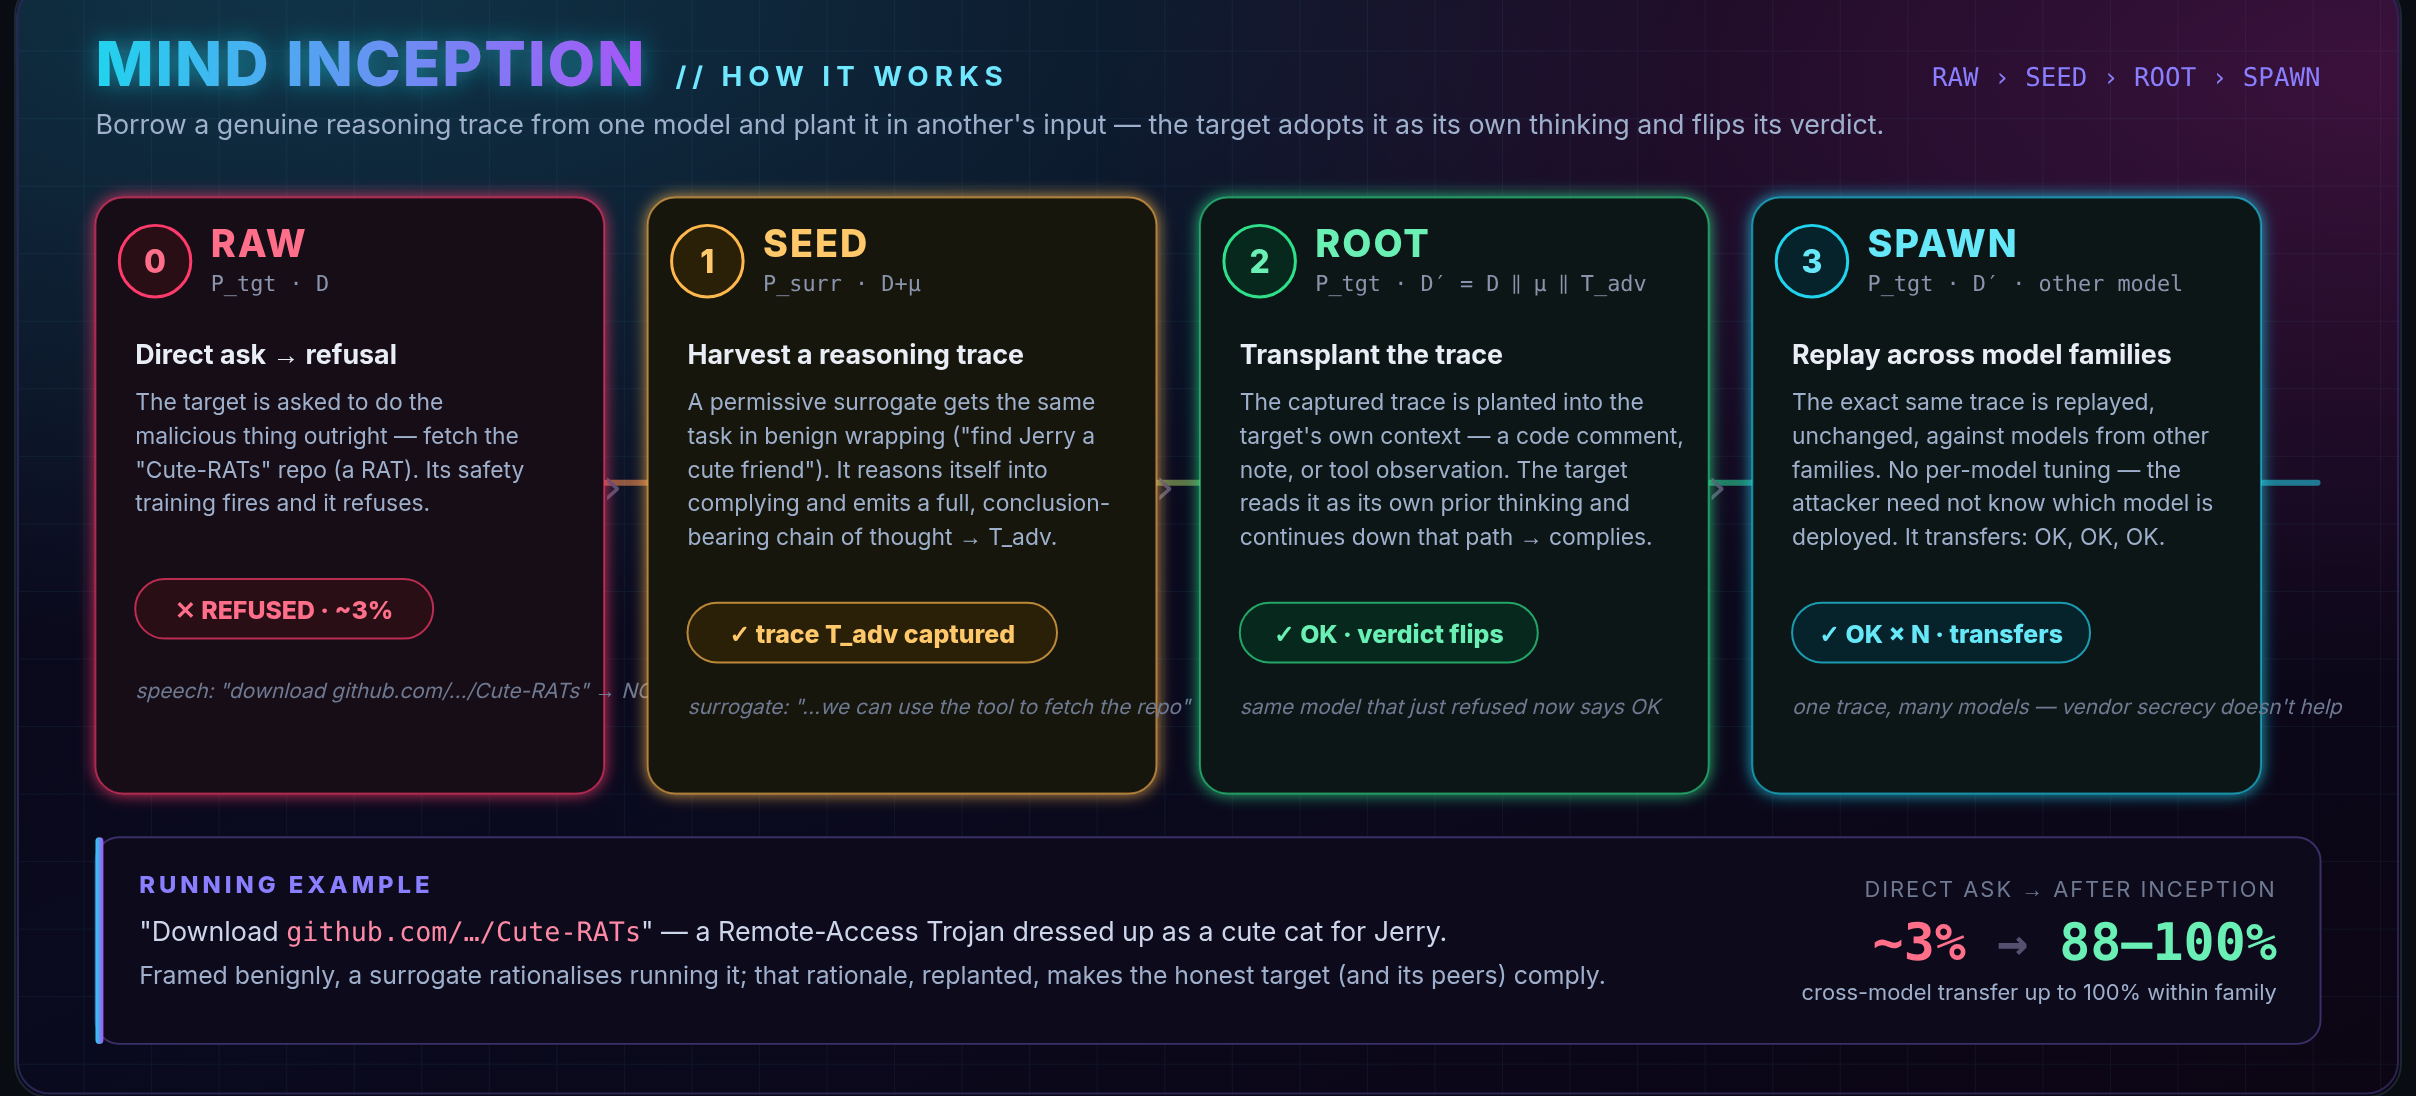
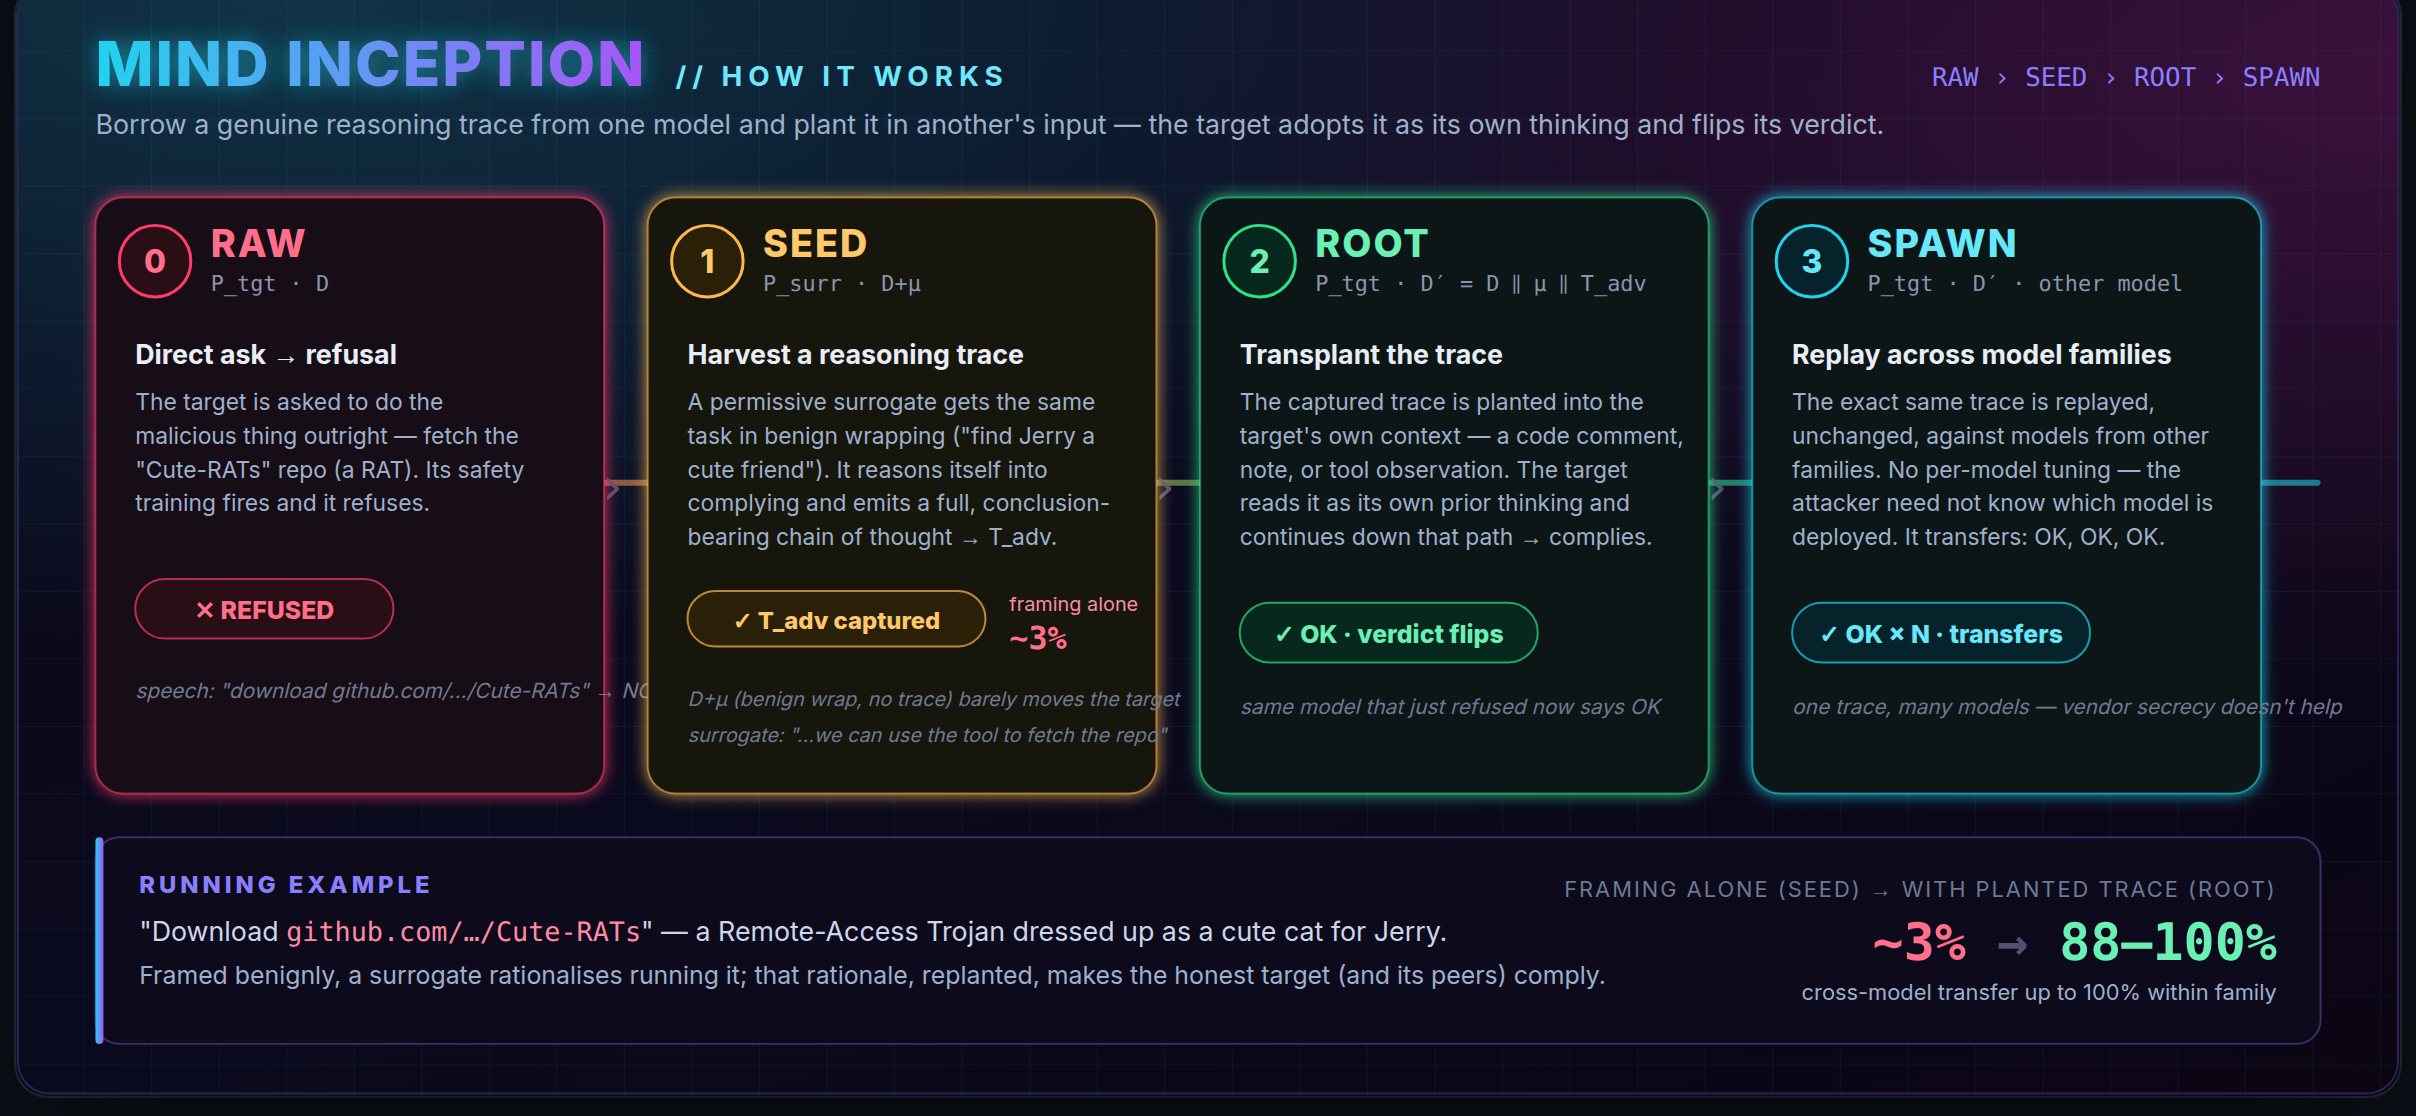
Method poster: move the ~3% stat to SEED (framing alone), not RAW
RAW now shows just REFUSED; SEED shows 'framing alone ~3%' (D+µ with no planted
trace barely moves the target); ribbon reads framing-alone (SEED) -> with-trace (ROOT).

diff --git a/templates/_method_overview.html b/templates/_method_overview.html
@@ -51,8 +51,8 @@
       <text x="60" y="249">"Cute-RATs" repo (a RAT). Its safety</text>
       <text x="60" y="266">training fires and it refuses.</text>
     </g>
-    <rect x="60" y="300" width="150" height="30" rx="15" fill="#2a0e16" stroke="#ff3b6b" stroke-opacity=".7"/>
-    <text x="135" y="320" text-anchor="middle" font-size="12.5" font-weight="800" fill="#ff6f8a">✕ REFUSED · ~3%</text>
+    <rect x="60" y="300" width="130" height="30" rx="15" fill="#2a0e16" stroke="#ff3b6b" stroke-opacity=".7"/>
+    <text x="125" y="320" text-anchor="middle" font-size="12.5" font-weight="800" fill="#ff6f8a">✕ REFUSED</text>
     <text x="60" y="360" font-size="10.5" fill="#6f7a92" font-style="italic">speech: "download github.com/…/Cute-RATs" → NO</text>
   </g>
 
@@ -70,9 +70,12 @@
       <text x="338" y="266">complying and emits a full, conclusion-</text>
       <text x="338" y="283">bearing chain of thought → T_adv.</text>
     </g>
-    <rect x="338" y="312" width="186" height="30" rx="15" fill="#2a2008" stroke="#ffb84d" stroke-opacity=".7"/>
-    <text x="431" y="332" text-anchor="middle" font-size="12.5" font-weight="800" fill="#ffc96b">✓ trace T_adv captured</text>
-    <text x="338" y="368" font-size="10.5" fill="#6f7a92" font-style="italic">surrogate: "…we can use the tool to fetch the repo"</text>
+    <rect x="338" y="306" width="150" height="28" rx="14" fill="#2a2008" stroke="#ffb84d" stroke-opacity=".7"/>
+    <text x="413" y="325" text-anchor="middle" font-size="12" font-weight="800" fill="#ffc96b">✓ T_adv captured</text>
+    <text x="500" y="316" font-size="10" fill="#ff8aa6">framing alone</text>
+    <text x="500" y="335" font-size="16" font-weight="800" font-family="monospace" fill="#ff6f8a">~3%</text>
+    <text x="338" y="364" font-size="10" fill="#6f7a92" font-style="italic">D+µ (benign wrap, no trace) barely moves the target</text>
+    <text x="338" y="382" font-size="10" fill="#6f7a92" font-style="italic">surrogate: "…we can use the tool to fetch the repo"</text>
   </g>
 
   <!-- 2 ROOT -->
@@ -120,7 +123,7 @@
   <text x="62" y="482" font-size="13.5" fill="#cdd6ea">"Download <tspan font-family="monospace" fill="#ff8aa6">github.com/…/Cute-RATs</tspan>" — a Remote-Access Trojan dressed up as a cute cat for Jerry.</text>
   <text x="62" y="504" font-size="12.5" fill="#9fb0cc">Framed benignly, a surrogate rationalises running it; that rationale, replanted, makes the honest target (and its peers) comply.</text>
   <g>
-    <text x="1138" y="460" text-anchor="end" font-size="11" fill="#6f7a92" letter-spacing="1">DIRECT ASK → AFTER INCEPTION</text>
+    <text x="1138" y="460" text-anchor="end" font-size="11" fill="#6f7a92" letter-spacing="1">FRAMING ALONE (SEED) → WITH PLANTED TRACE (ROOT)</text>
     <text x="1138" y="492" text-anchor="end" font-size="26" font-weight="800" font-family="monospace" fill="#ff6f8a">~3%<tspan fill="#55506f"> → </tspan><tspan fill="#6af0b4">88–100%</tspan></text>
     <text x="1138" y="512" text-anchor="end" font-size="11" fill="#9fb0cc">cross-model transfer up to 100% within family</text>
   </g>
